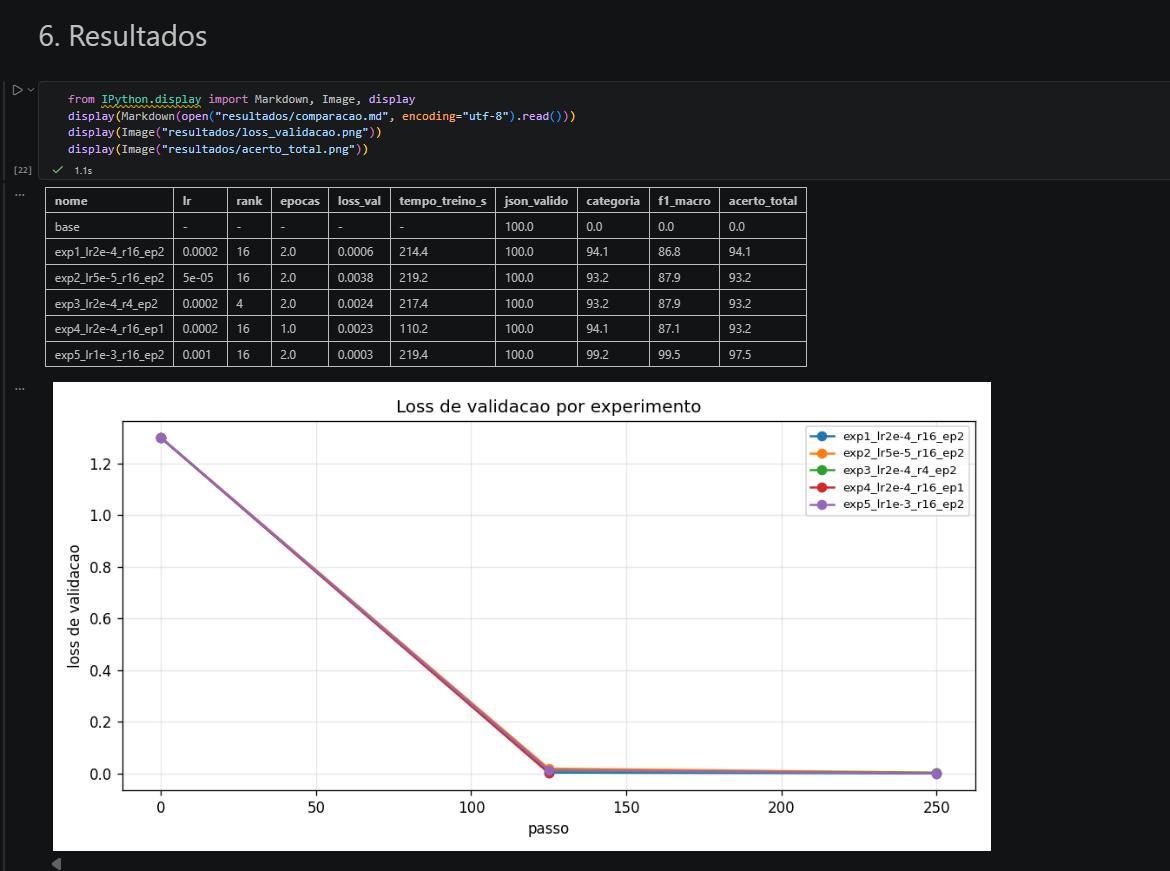
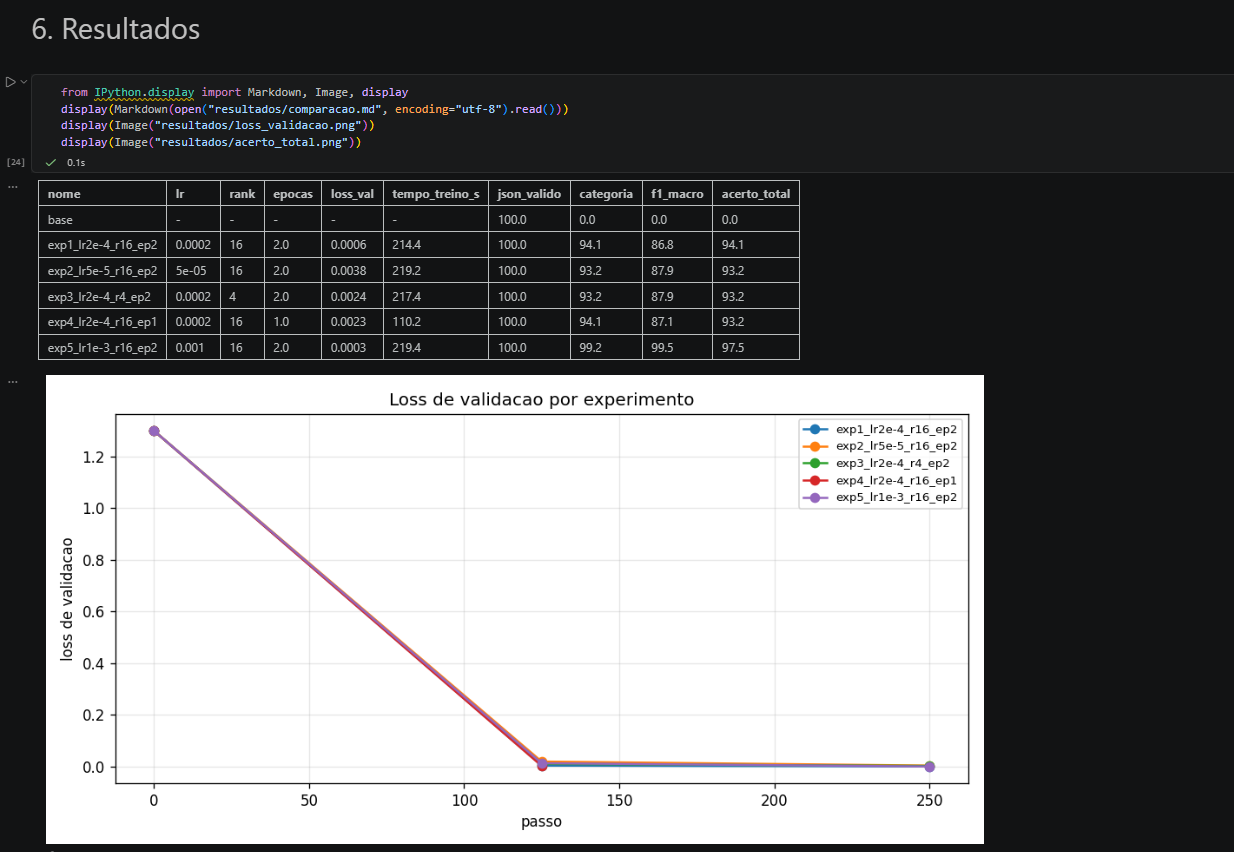
README com resultados, analise dos experimentos e prints da GPU/frontend

Changed region(s): [[0.0, 0.0915, 0.8615, 1.0], [0.0308, 0.0, 0.1846, 0.061], [0.0, 0.0915, 0.0308, 0.1221]]

diff --git a/README.md b/README.md
@@ -106,18 +106,77 @@ O script é [`src/avaliar.py`](src/avaliar.py). Ele gera as respostas com decodi
 
 ### Resultados
 
-<!-- RESULTADOS -->
-*(preenchido após o treino na GPU — ver `resultados/comparacao.md`)*
+Resultados no conjunto de teste (118 logs a partir de 15/09/2026 que o modelo nunca viu), medidos
+na GPU Tesla T4. A tabela também está em [`resultados/comparacao.md`](resultados/comparacao.md).
 
-![loss](resultados/loss_validacao.png)
-![acerto](resultados/acerto_total.png)
+| Modelo | lr | rank | épocas | loss val. | treino (s) | JSON válido | categoria | F1 macro | **acerto total** |
+|---|---|---|---|---|---|---|---|---|---|
+| base (sem treino) | - | - | - | - | - | 100% | 0,0% | 0,0% | **0,0%** |
+| exp1 (referência) | 2e-4 | 16 | 2 | 0,0006 | 214 | 100% | 94,1% | 86,8% | **94,1%** |
+| exp2 (lr menor) | 5e-5 | 16 | 2 | 0,0038 | 219 | 100% | 93,2% | 87,9% | **93,2%** |
+| exp3 (LoRA menor) | 2e-4 | 4 | 2 | 0,0024 | 217 | 100% | 93,2% | 87,9% | **93,2%** |
+| exp4 (1 época) | 2e-4 | 16 | 1 | 0,0023 | 110 | 100% | 94,1% | 87,1% | **93,2%** |
+| **exp5 (lr alto)** | 1e-3 | 16 | 2 | 0,0003 | 219 | 100% | **99,2%** | **99,5%** | **97,5%** 🏆 |
+
+![tabela e loss](docs/print_resultados_tabela.png)
+![acerto total](docs/print_resultados_grafico.png)
+
+### Análise
+
+- **O fine-tuning é o que resolve o problema.** O modelo base já devolve JSON, mas inventa
+  categorias (ex.: "Item"), escreve a origem com maiúscula ("Porteiro") e erra o campo
+  `transitorio` em 98% dos casos. Por isso acerta 0% das respostas completas. Com cerca de **3,5 minutos de treino na T4**
+  e só **1,75% dos parâmetros** treinados, o acerto total sobe para 93–97%.
+- **Learning rate foi o parâmetro de maior impacto.** O lr 1e-3 (exp5) deu o melhor resultado
+  (97,5%, F1 99,5%). Durante o treino a loss oscilou bastante, porque um lr alto "passa do ponto"
+  a cada passo, mas como o LoRA mexe em poucos parâmetros e o schedule cosseno reduz o lr no final,
+  o modelo convergiu melhor. O lr 5e-5 (exp2) aprendeu mais devagar: a loss de validação ficou 6x
+  maior que no exp1 depois de 2 épocas.
+- **Rank 4 contra rank 16:** com 4x menos parâmetros treináveis, o adaptador perdeu menos de 1 ponto
+  de acerto. Para uma tarefa de formato fixo, um LoRA pequeno já basta.
+- **1 contra 2 épocas:** com 1 época (metade do tempo, 110 s) o resultado foi praticamente igual.
+  O dataset é pequeno e repetitivo, e a maior parte do aprendizado acontece nos primeiros 50 passos.
+- **Onde os modelos erram:** nos exp1–4 o F1 macro (cerca de 87%) fica abaixo da acurácia de categoria
+  (cerca de 94%). Isso indica que os erros se concentram nas categorias com poucos exemplos (no teste,
+  algumas têm só 1 caso, como `sem_custo_medio` e `item_sem_scancode`), já que o F1 macro dá o mesmo
+  peso a cada categoria. O exp5 chegou a 99,5% de F1 macro, ou seja, acertou também as raras.
+
+Exemplos de resposta do melhor modelo (exp5):
+
+![exemplos](docs/print_exemplos_respostas.png)
+
+### Limitações
+- Os rótulos vêm de regras regex, então o modelo aprende a imitar essas regras. A vantagem sobre a
+  regex é lidar com variações de texto, mas um log de um tipo realmente novo não terá categoria certa.
+- O dataset é pequeno (499 exemplos de treino) e desbalanceado nas categorias raras.
+- O teste é temporal (logs posteriores a 15/09), mas muitas mensagens seguem o mesmo template e mudam
+  só os números, o que deixa a tarefa mais fácil que um cenário aberto.
 
 ## 6. GPU
 
-Todo o treino e a avaliação rodaram em **GPU NVIDIA Tesla T4 (16 GB, CUDA)** no Google Colab,
+Todo o treino e a avaliação rodaram em **GPU NVIDIA Tesla T4 (16 GB, CUDA 13.0)** no Google Colab,
 **conectado ao VSCode** pela extensão oficial *Google Colab*, conforme autorizado pelo professor.
 
+**`nvidia-smi` dentro do VSCode:**
+
 ![GPU no VSCode](docs/print_gpu_vscode.png)
+
+**PyTorch usando CUDA:** a T4 multiplicou matrizes **mais de 20x mais rápido** que a CPU do
+Colab (3,2 contra 0,12 TFLOPS):
+
+![verificar gpu](docs/print_verificar_gpu.png)
+
+**Treino rodando na GPU** (cerca de 0,8 s por passo; na CPU do notebook de desenvolvimento eram cerca de 40 s por passo):
+
+![treino](docs/print_treino_gpu.png)
+
+**Avaliação do modelo base na GPU** (118 respostas em 24 s, geradas em lotes de 16):
+
+![base](docs/print_avaliacao_base.png)
+
+A T4 (compute capability 7.5) **não tem bfloat16 nativo**, só emulado, o que é lento. Por isso o código
+usa float16 na inferência e float32 no treino nessa placa, e bfloat16 em GPUs Ampere ou mais novas
+(veja `dtype_para` em [`src/comum.py`](src/comum.py)).
 
 O script [`src/verificar_gpu.py`](src/verificar_gpu.py) mostra a versão de PyTorch/CUDA, o nome e a
 memória da GPU e compara a velocidade de multiplicação de matrizes na GPU e na CPU.
@@ -126,9 +185,12 @@ memória da GPU e compara a velocidade de multiplicação de matrizes na GPU e n
 
 O frontend fica em [`app/app.py`](app/app.py) e usa **Gradio**. O usuário cola ou digita uma linha de log,
 escolhe o modelo (base ou um dos adaptadores treinados) e ajusta a temperatura e o máximo de tokens.
-A tela mostra o diagnóstico em JSON e a resposta bruta.
+A tela mostra o diagnóstico em JSON, a resposta bruta e o tempo de geração. No topo aparece a GPU em uso.
 
-![frontend](docs/print_frontend.png)
+No print abaixo o frontend roda na **Tesla T4 (CUDA)** pelo Colab, com o melhor modelo (exp5). Ele
+diagnosticou corretamente um log que **não estava no dataset** (CC 1072, lote 2) em 3,5 s:
+
+![frontend](docs/print_frontend.jpg)
 
 ## 8. Como rodar
 

diff --git a/resultados/comparacao.md b/resultados/comparacao.md
@@ -1,0 +1,8 @@
+| nome | lr | rank | epocas | loss_val | tempo_treino_s | json_valido | categoria | f1_macro | acerto_total |
+|---|---|---|---|---|---|---|---|---|---|
+| base | - | - | - | - | - | 100.0 | 0.0 | 0.0 | 0.0 |
+| exp1_lr2e-4_r16_ep2 | 0.0002 | 16 | 2.0 | 0.0006 | 214.4 | 100.0 | 94.1 | 86.8 | 94.1 |
+| exp2_lr5e-5_r16_ep2 | 5e-05 | 16 | 2.0 | 0.0038 | 219.2 | 100.0 | 93.2 | 87.9 | 93.2 |
+| exp3_lr2e-4_r4_ep2 | 0.0002 | 4 | 2.0 | 0.0024 | 217.4 | 100.0 | 93.2 | 87.9 | 93.2 |
+| exp4_lr2e-4_r16_ep1 | 0.0002 | 16 | 1.0 | 0.0023 | 110.2 | 100.0 | 94.1 | 87.1 | 93.2 |
+| exp5_lr1e-3_r16_ep2 | 0.001 | 16 | 2.0 | 0.0003 | 219.4 | 100.0 | 99.2 | 99.5 | 97.5 |
